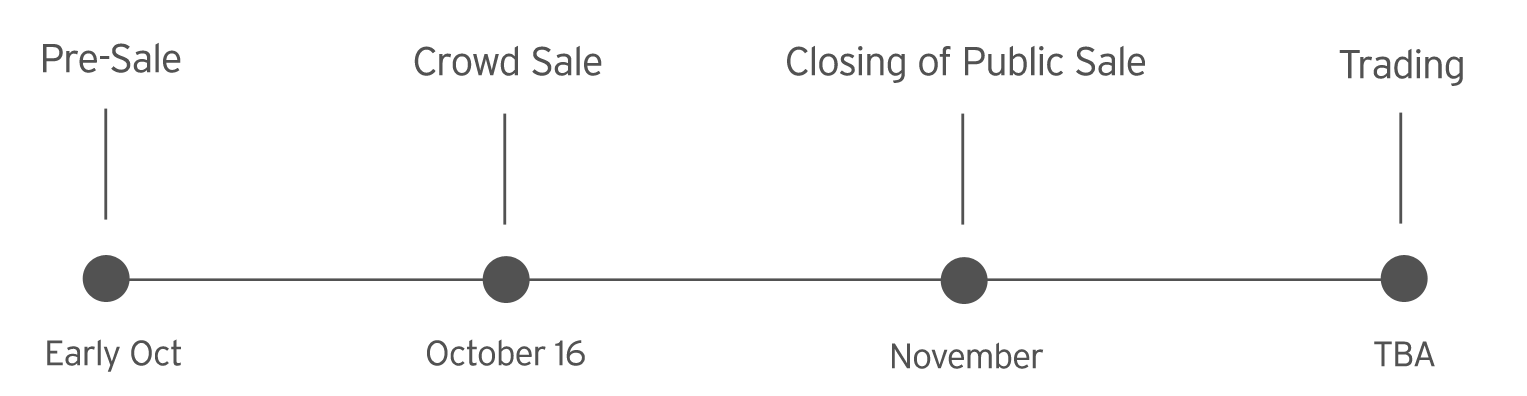
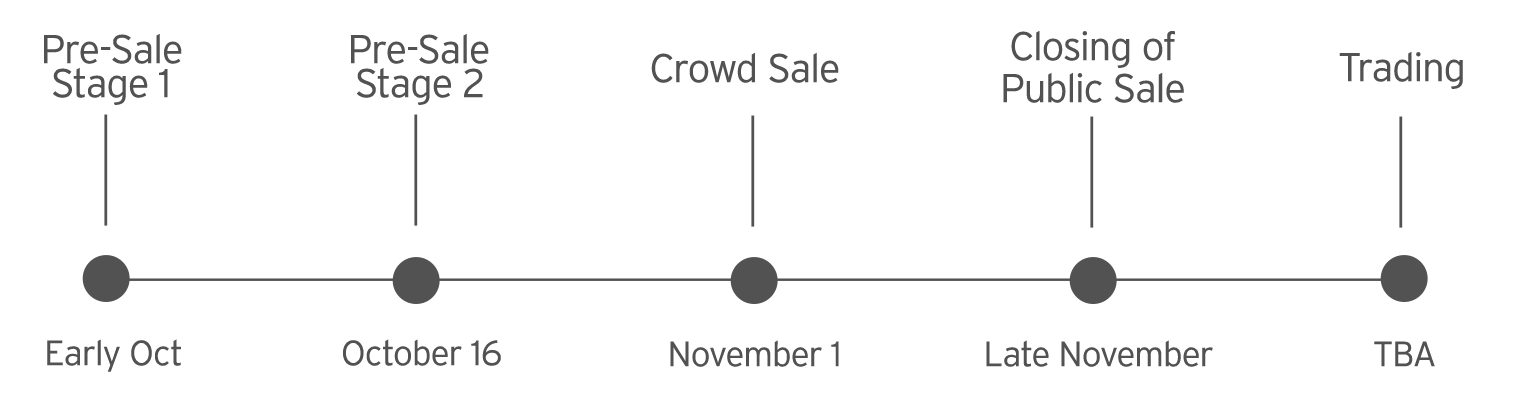
pre-sale stages

diff --git a/src/controllers/index.js b/src/controllers/index.js
@@ -10,7 +10,7 @@ const renderResponse = async (req, res, askEmail) => {
   if (config.current_phase == "presale") {
 
     const data = {
-      phase: "Pre-sale",
+      phase: "Pre-sale Stage 1",
       showProgress: false,
       price: config.initialPriceInWei * config.sds / config.ether,
       deadline: config.presaleDeadline,

diff --git a/src/views/public/css/style.css b/src/views/public/css/style.css
@@ -6,7 +6,7 @@ body{
 h1 {
   color: rgb(153, 153, 153);
   font-weight: 400;
-  font-size: 30px;
+  font-size: 28px;
   margin-top: 40px;
   text-align: center;
 }
